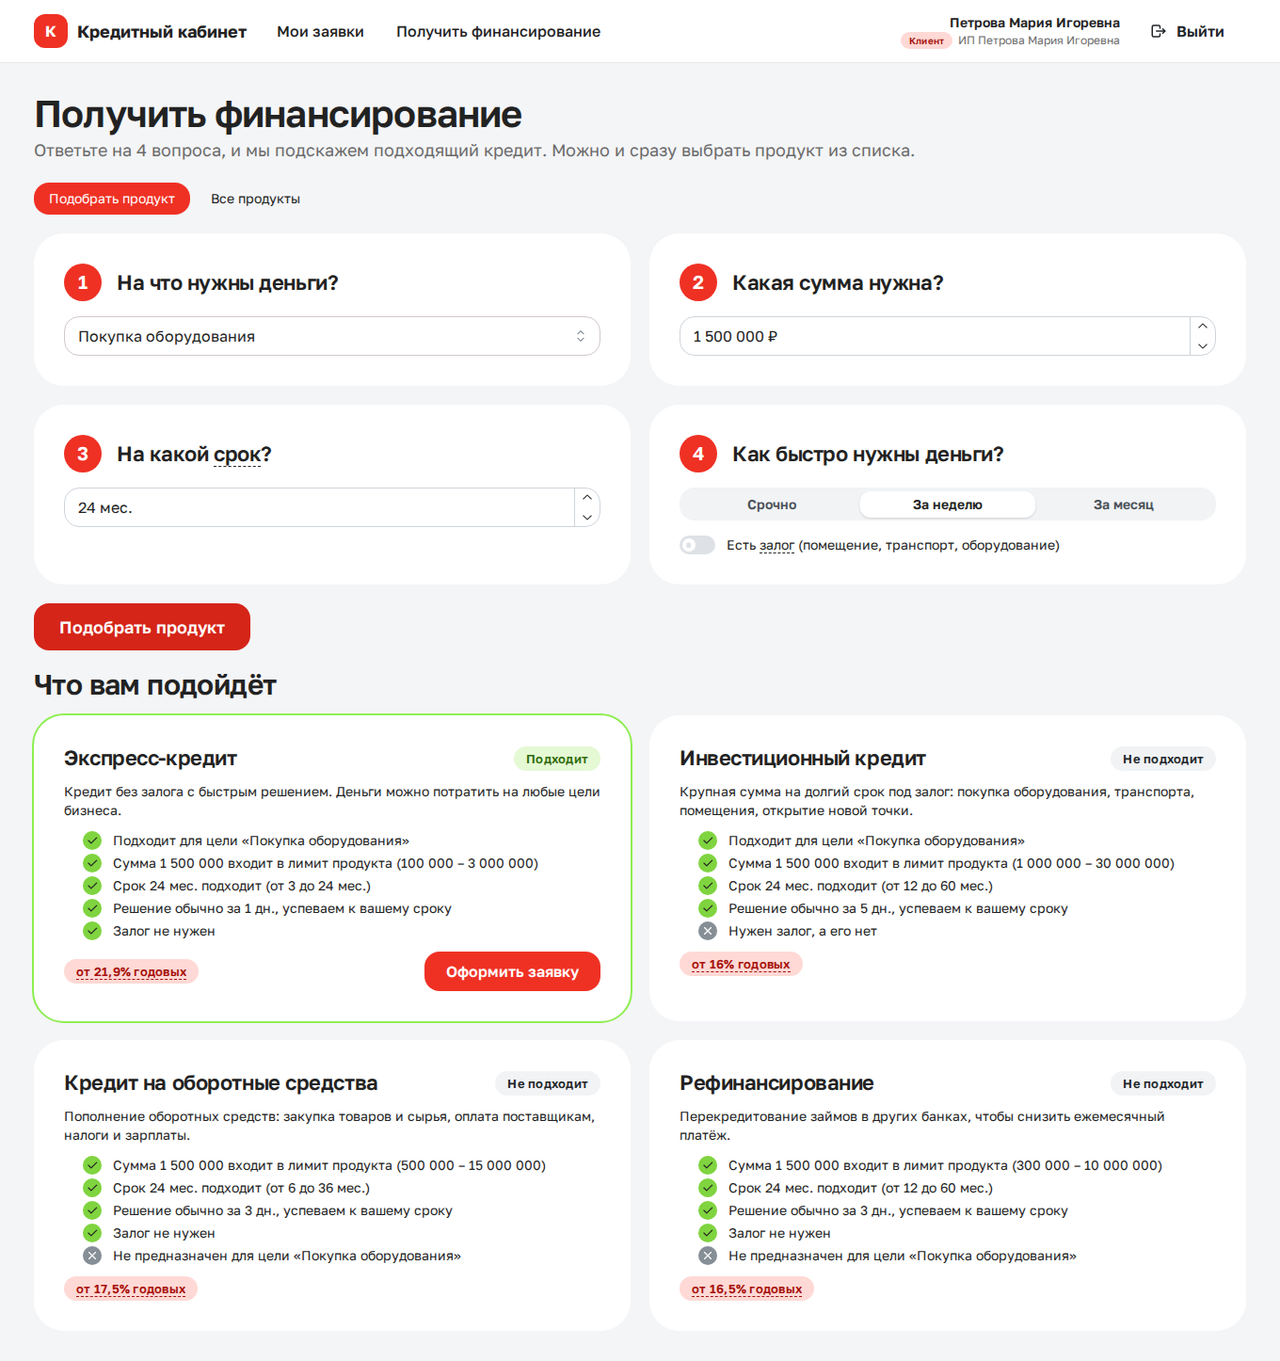
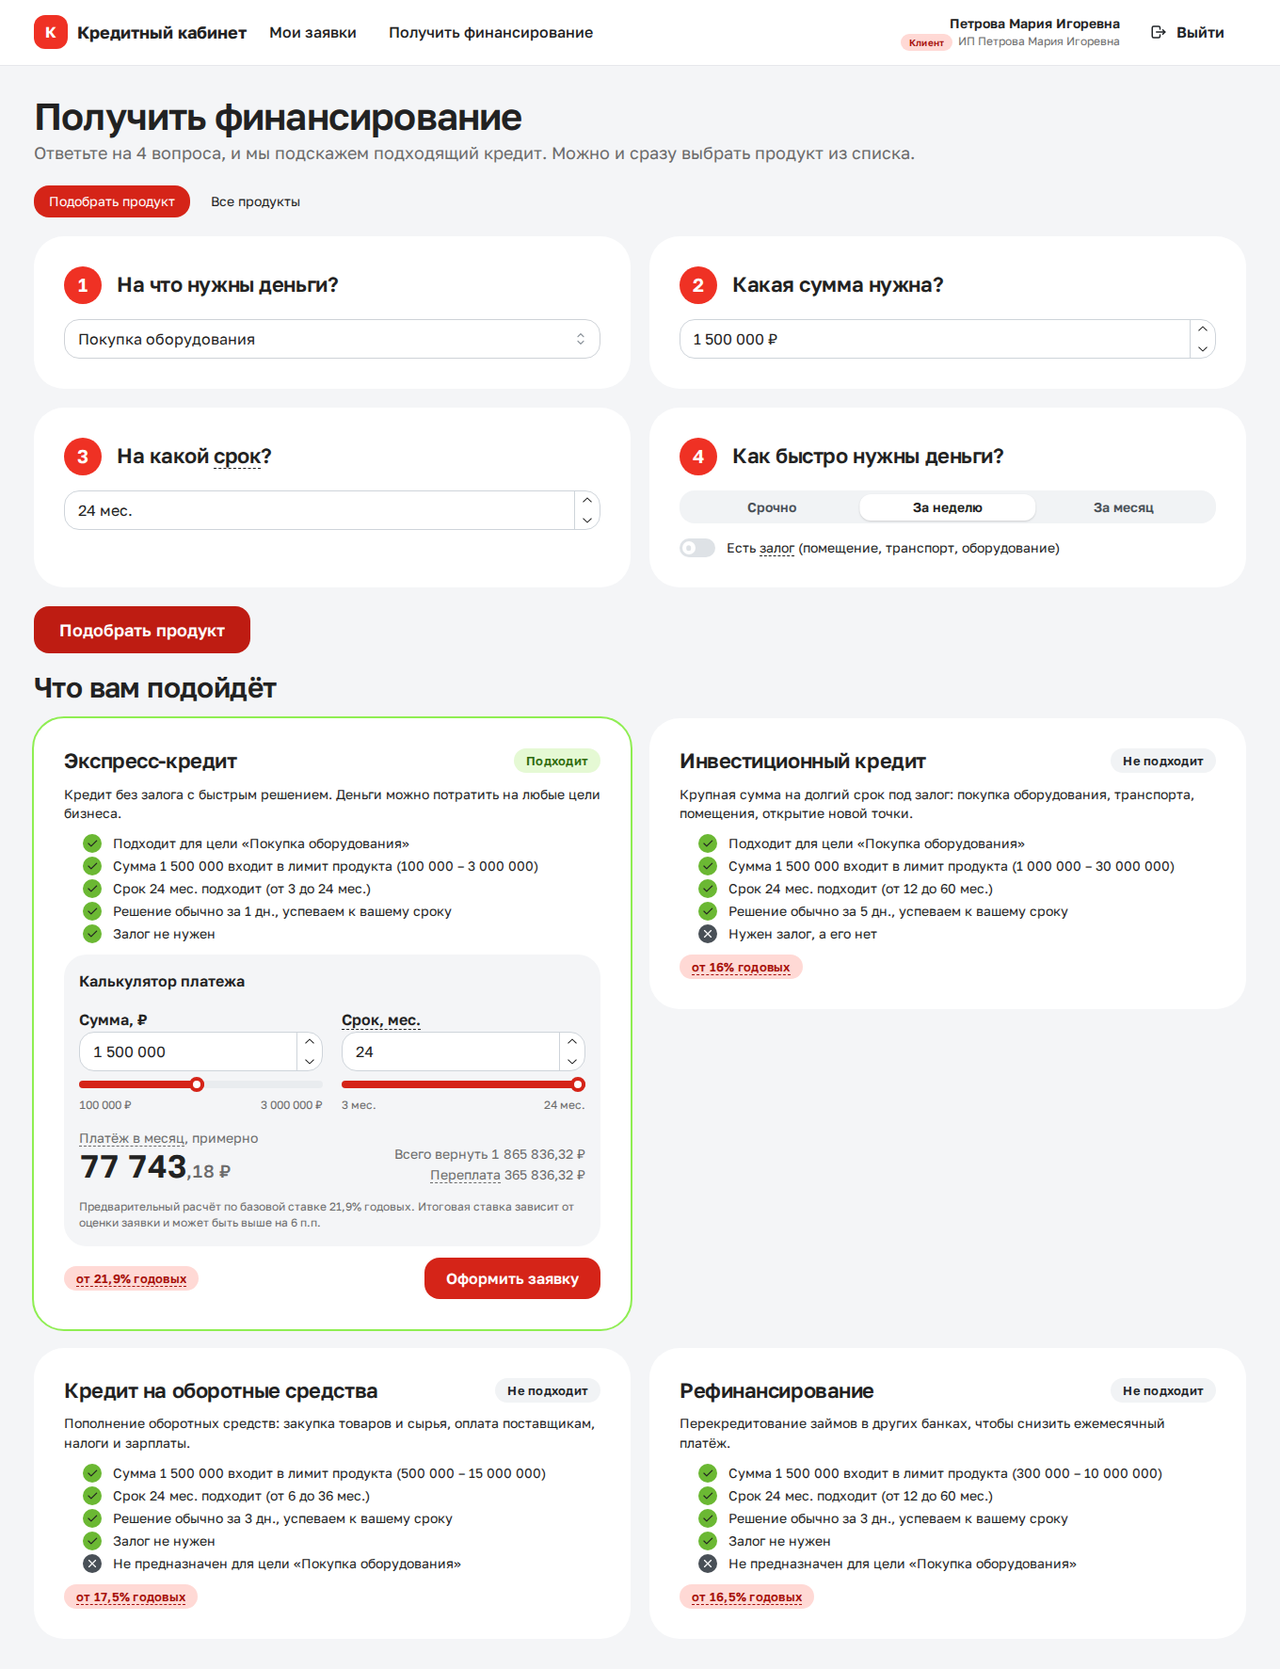
Дизайн-проход, финальное ревью: шкала анкеты, кнопки предложения рядом с условиями, шапка на 768, контраст кнопок AA, новые скриншоты

diff --git a/frontend/src/components/application/OfferCard.tsx b/frontend/src/components/application/OfferCard.tsx
@@ -26,7 +26,8 @@ function Figure({ label, value }: { label: ReactNode; value: number | null | und
   );
 }
 
-export function OfferCard({ application }: { application: Application }) {
+/** actions — кнопки «Принять / Отказаться»: стоят прямо под условиями, чтобы решение принималось рядом с цифрами */
+export function OfferCard({ application, actions }: { application: Application; actions?: ReactNode }) {
   const offer = application.offer;
   if (!offer) return null;
 
@@ -39,10 +40,6 @@ export function OfferCard({ application }: { application: Application }) {
     { key: "term", label: <Term id="term">Срок</Term>, asked: months(application.term_months), offered: months(offer.term_months), changed: offer.term_months !== application.term_months },
     { key: "rate", label: <Term id="rate">Ставка</Term>, asked: "—", offered: `${percent(offer.rate)} годовых`, changed: false },
   ];
-  // Объяснение ставим после последней изменённой строки — рядом с теми цифрами, которые оно объясняет
-  // (если сумма и срок те же, а изменилась только ставка, — после строки ставки)
-  const changedIndex = rows.map((row) => row.changed).lastIndexOf(true);
-  const lastChanged = changedIndex === -1 ? rows.length - 1 : changedIndex;
 
   return (
     <Card data-testid="offer">
@@ -85,7 +82,7 @@ export function OfferCard({ application }: { application: Application }) {
           <Text size="sm" fw={600} ta="right">
             Банк предлагает
           </Text>
-          {rows.map((row, index) => (
+          {rows.map((row) => (
             <Fragment key={row.key}>
               <Text c={COLORS.textSecondary}>{row.label}</Text>
               <Text
@@ -103,24 +100,23 @@ export function OfferCard({ application }: { application: Application }) {
               <Text className="num" ta="right" fw={600} c={row.changed ? COLORS.accentText : COLORS.text} data-changed={row.changed || undefined}>
                 {row.offered}
               </Text>
-              {index === lastChanged && explanation && isCounter && (
-                <Box
-                  style={{ gridColumn: "1 / -1", borderLeft: `3px solid ${COLORS.attention}`, borderRadius: 4 }}
-                  bg={COLORS.card}
-                  px="md"
-                  py="sm"
-                >
-                  <Text size="sm" fw={600} c={COLORS.attentionText}>
-                    Почему условия изменены
-                  </Text>
-                  <Text size="sm" mt={2}>
-                    {explanation}
-                  </Text>
-                </Box>
-              )}
             </Fragment>
           ))}
         </Box>
+
+        {/* Объяснение сразу под сравнением: изменённые строки выделены выше, здесь — почему */}
+        {explanation && isCounter && (
+          <Box style={{ borderLeft: `3px solid ${COLORS.attention}`, borderRadius: 4 }} px="md" py={4}>
+            <Text size="sm" fw={600} c={COLORS.attentionText}>
+              Почему условия изменены
+            </Text>
+            <Text size="sm" mt={2}>
+              {explanation}
+            </Text>
+          </Box>
+        )}
+
+        {actions}
 
         <Text size="sm" c={COLORS.textSecondary}>
           {offer.status === "active" ? `Предложение действует до ${dateTime(offer.valid_until)}.` : `Предложение: ${offer.status_label.toLowerCase()}.`}

diff --git a/frontend/src/components/Layout.tsx b/frontend/src/components/Layout.tsx
@@ -24,45 +24,45 @@ export function Layout() {
     <Box bg={COLORS.page} mih="100vh">
       <Box component="header" bg={COLORS.card} style={{ borderBottom: `1px solid ${COLORS.border}` }}>
         <Container size="xl" py="sm">
+          {/* До 992px: логотип и «Выйти» в первой строке, разделы второй строкой (см. .header-nav в global.css) */}
           <Group justify="space-between" wrap="wrap" gap="sm">
-            <Group gap="lg" wrap="wrap">
-              <Group gap={10}>
-                <Box
-                  w={36}
-                  h={36}
-                  bg={COLORS.accent}
-                  style={{ borderRadius: 12, display: "grid", placeItems: "center", color: "white", fontWeight: 700 }}
+            <Group gap={10} wrap="nowrap">
+              <Box
+                w={36}
+                h={36}
+                bg={COLORS.accent}
+                style={{ borderRadius: 12, display: "grid", placeItems: "center", color: "white", fontWeight: 700 }}
+                aria-hidden
+              >
+                К
+              </Box>
+              <Text fw={700} size="lg">
+                Кредитный кабинет
+              </Text>
+            </Group>
+            <Group gap="xs" component="nav" className="header-nav" aria-label="Разделы">
+              {links.map((link) => (
+                <Anchor
+                  key={link.to}
+                  component={NavLink}
+                  to={link.to}
+                  end={link.end}
+                  underline="never"
+                  c={COLORS.text}
+                  px="sm"
+                  py={10}
+                  style={({ isActive }: { isActive: boolean }) => ({
+                    borderRadius: RADIUS.control,
+                    fontWeight: 500,
+                    background: isActive ? COLORS.page : "transparent",
+                  })}
                 >
-                  К
-                </Box>
-                <Text fw={700} size="lg">
-                  Кредитный кабинет
-                </Text>
-              </Group>
-              <Group gap="xs" component="nav">
-                {links.map((link) => (
-                  <Anchor
-                    key={link.to}
-                    component={NavLink}
-                    to={link.to}
-                    end={link.end}
-                    underline="never"
-                    c={COLORS.text}
-                    px="sm"
-                    py={6}
-                    style={({ isActive }: { isActive: boolean }) => ({
-                      borderRadius: RADIUS.control,
-                      fontWeight: 500,
-                      background: isActive ? COLORS.page : "transparent",
-                    })}
-                  >
-                    {link.label}
-                  </Anchor>
-                ))}
-              </Group>
+                  {link.label}
+                </Anchor>
+              ))}
             </Group>
             {user && (
-              <Group gap="md" wrap="nowrap">
+              <Group gap="md" wrap="nowrap" className="header-user">
                 <Stack gap={0} align="flex-end">
                   <Text size="sm" fw={600} data-testid="current-user">
                     {user.full_name}

diff --git a/frontend/src/components/Timeline.tsx b/frontend/src/components/Timeline.tsx
@@ -1,5 +1,5 @@
 /** История заявки из поля timeline. Новые события сверху; только что появившиеся — подсвечены. */
-import { Box, Group, Stack, Text } from "@mantine/core";
+import { Box, Group, Stack, Text, UnstyledButton } from "@mantine/core";
 import { useEffect, useRef, useState } from "react";
 
 import type { Schemas } from "../api/client";
@@ -7,6 +7,27 @@ import { COLORS, RADIUS } from "../theme";
 import { dateTime } from "../utils/format";
 
 type Item = Schemas["TimelineItem"];
+
+// Длинный комментарий (например, объяснение предложения) уже показан в своём блоке на странице,
+// поэтому в истории он свёрнут до трёх строк и разворачивается по кнопке
+const LONG_COMMENT = 160;
+
+function Comment({ text }: { text: string }) {
+  const [open, setOpen] = useState(false);
+  const isLong = text.length > LONG_COMMENT;
+  return (
+    <Stack gap={2} align="flex-start">
+      <Text size="sm" lineClamp={isLong && !open ? 3 : undefined}>
+        {text}
+      </Text>
+      {isLong && (
+        <UnstyledButton onClick={() => setOpen(!open)} fz="sm" c={COLORS.textSecondary} td="underline" style={{ minHeight: 24 }}>
+          {open ? "Свернуть" : "Показать полностью"}
+        </UnstyledButton>
+      )}
+    </Stack>
+  );
+}
 
 export function Timeline({ items }: { items: Item[] }) {
   const seen = useRef<number | null>(null);
@@ -32,12 +53,12 @@ export function Timeline({ items }: { items: Item[] }) {
           key={`${item.at}-${index}`}
           className={freshFrom !== null && index >= freshFrom ? "event-new" : undefined}
           p="sm"
-          style={{ borderRadius: RADIUS.control, borderLeft: `3px solid ${index === items.length - 1 ? COLORS.accent : COLORS.border}` }}
+          style={{ borderRadius: RADIUS.control, borderLeft: `3px solid ${index === items.length - 1 ? COLORS.text : COLORS.border}` }}
         >
           <Group justify="space-between" align="flex-start" wrap="nowrap" gap="sm">
             <Stack gap={2}>
               <Text fw={600}>{item.title}</Text>
-              {item.comment && <Text size="sm">{item.comment}</Text>}
+              {item.comment && <Comment text={item.comment} />}
               <Text size="xs" c={COLORS.textSecondary}>
                 {item.actor}
               </Text>

diff --git a/frontend/src/pages/client/ApplicationPage.tsx b/frontend/src/pages/client/ApplicationPage.tsx
@@ -123,6 +123,8 @@ export function ApplicationPage() {
   const application = query.data;
   const working = workingStep(application);
   const finished = allStepsDone(application);
+  // Пока предложение действует, кнопки ответа стоят в карточке предложения, рядом с условиями
+  const offerOpen = application.offer?.status === "active" && application.available_actions.length > 0;
 
   return (
     <Stack gap="lg">
@@ -184,7 +186,7 @@ export function ApplicationPage() {
             </Alert>
           )}
           {working && <BankWorking label={working.label} />}
-          {application.available_actions.length > 0 && (
+          {application.available_actions.length > 0 && !offerOpen && (
             <Box mt="xs">
               <ActionBar application={application} />
             </Box>
@@ -201,7 +203,7 @@ export function ApplicationPage() {
           <Stack gap="lg">
             <InfoRequestPanel application={application} />
             {/* После выдачи условия уже показаны в итоге сверху — второй раз их не повторяем */}
-            {!finished && <OfferCard application={application} />}
+            {!finished && <OfferCard application={application} actions={offerOpen ? <ActionBar application={application} /> : undefined} />}
             <ApplicationDetails application={application} />
             <DocumentsBlock application={application} />
           </Stack>

diff --git a/frontend/src/pages/client/ProductsPage.tsx b/frontend/src/pages/client/ProductsPage.tsx
@@ -187,7 +187,8 @@ function Picker() {
           {recommend.data.some((item) => item.suitable) ? null : (
             <Text c={COLORS.textSecondary}>Под эти условия ни один продукт не подходит полностью. Ниже видно, что можно изменить.</Text>
           )}
-          <SimpleGrid cols={{ base: 1, md: 2 }} spacing="lg">
+          {/* Карточки разной высоты (у подходящей есть калькулятор) не растягиваются друг под друга */}
+          <SimpleGrid cols={{ base: 1, md: 2 }} spacing="lg" style={{ alignItems: "start" }}>
             {recommend.data.map((item) => (
               <Recommendation key={item.product.code} item={item} request={request} />
             ))}
@@ -204,7 +205,7 @@ function Catalog() {
   if (products.isError) return <ErrorState error={products.error} onRetry={() => void products.refetch()} />;
   if (!products.data?.length) return <EmptyState title="Продуктов пока нет" />;
   return (
-    <SimpleGrid cols={{ base: 1, md: 2 }} spacing="lg">
+    <SimpleGrid cols={{ base: 1, md: 2 }} spacing="lg" style={{ alignItems: "start" }}>
       {products.data.map((product) => (
         <ProductCard key={product.code} product={product} />
       ))}

diff --git a/frontend/src/components/bank/ScoringBars.tsx b/frontend/src/components/bank/ScoringBars.tsx
@@ -26,7 +26,8 @@ function SummaryLabel({ children }: { children: React.ReactNode }) {
   );
 }
 
-/** Долговая нагрузка: какая часть месячной выручки уйдёт на платежи по всем кредитам вместе с новым */
+/** Долговая нагрузка: какая часть месячной выручки уйдёт на платежи по всем кредитам вместе с новым.
+ *  Округляем до целого процента, как в факторе скоринга, чтобы на экране было одно число */
 function DebtLoad({ value }: { value: number }) {
   const share = Math.min(Math.max(value, 0), 1);
   return (
@@ -36,7 +37,7 @@ function DebtLoad({ value }: { value: number }) {
           <Term id="debt_load">Долговая нагрузка</Term>
         </Text>
         <Text fw={600} className="num">
-          {percent(Math.round(value * 1000) / 10)} выручки
+          {percent(Math.round(value * 100))} выручки
         </Text>
       </Group>
       <Box h={10} bg="#E6E7EB" style={{ borderRadius: 5, overflow: "hidden" }} aria-hidden>

diff --git a/frontend/src/pages/client/ApplicationFormPage.tsx b/frontend/src/pages/client/ApplicationFormPage.tsx
@@ -5,6 +5,7 @@
  */
 import { Alert, Box, Button, Card, Group, NumberInput, Select, SimpleGrid, Stack, Stepper, Text, Textarea, Title } from "@mantine/core";
 import { notifications } from "@mantine/notifications";
+import { IconCheck } from "@tabler/icons-react";
 import { useMutation, useQuery, useQueryClient } from "@tanstack/react-query";
 import { useEffect, useState, type ReactNode } from "react";
 import { Link, useNavigate, useParams, useSearchParams } from "react-router-dom";
@@ -244,7 +245,15 @@ export function ApplicationFormPage() {
       )}
 
       <Card>
-        <Stepper active={step} onStepClick={(target) => target < step && setStep(target)} size="sm" color="brand" allowNextStepsSelect={false}>
+        <Stepper
+          active={step}
+          onStepClick={(target) => target < step && setStep(target)}
+          size="sm"
+          color="brand"
+          allowNextStepsSelect={false}
+          className="form-stepper"
+          completedIcon={<IconCheck size={16} stroke={3} />}
+        >
           {STEPS.map((label) => (
             <Stepper.Step key={label} label={label} />
           ))}

diff --git a/frontend/src/global.css b/frontend/src/global.css
@@ -44,6 +44,35 @@ h3 {
   background: #e9eaee;
 }
 
+/* Шаги анкеты: пройденный шаг салатовый с галочкой, как на шкале заявки; текущий залит красным */
+.form-stepper .mantine-Stepper-stepIcon[data-completed] {
+  background: #8fee52;
+  border-color: #8fee52;
+  color: #222222;
+}
+
+.form-stepper .mantine-Stepper-stepIcon[data-progress] {
+  background: #d52418;
+  border-color: #d52418;
+  color: #ffffff;
+}
+
+.form-stepper .mantine-Stepper-separator[data-active] {
+  background: #8fee52;
+}
+
+/* Шапка: на ширине меньше 992px разделы уходят второй строкой на всю ширину */
+@media (max-width: 61.99em) {
+  .header-nav {
+    order: 3;
+    width: 100%;
+  }
+}
+
+.header-nav {
+  flex: 1;
+}
+
 /* ---------- Фокус с клавиатуры ---------- */
 /* Видимое кольцо у всего, до чего можно дойти Tab: кнопки, ссылки, строки таблиц, термины с подсказкой */
 :focus-visible {

diff --git a/frontend/src/pages/bank/StatsPage.tsx b/frontend/src/pages/bank/StatsPage.tsx
@@ -47,11 +47,13 @@ export function StatsPage() {
             <Table.Tbody>
               {data.by_status.map((item) => (
                 <Table.Tr key={item.status}>
-                  <Table.Td w="35%">{item.label}</Table.Td>
+                  <Table.Td w="35%" c={item.count ? COLORS.text : COLORS.textSecondary}>
+                    {item.label}
+                  </Table.Td>
                   <Table.Td>
                     <Box h={10} w={`${(item.count / maxCount) * 100}%`} miw={item.count ? 6 : 0} bg={item.status === "MANUAL_REVIEW" ? COLORS.accent : "#C9CBD2"} style={{ borderRadius: 6 }} />
                   </Table.Td>
-                  <Table.Td ta="right" className="num" w={60} fw={600}>
+                  <Table.Td ta="right" className="num" w={60} fw={item.count ? 600 : 400} c={item.count ? COLORS.text : COLORS.textSecondary}>
                     {item.count}
                   </Table.Td>
                 </Table.Tr>

diff --git a/frontend/e2e/screenshots.spec.ts b/frontend/e2e/screenshots.spec.ts
@@ -31,6 +31,7 @@ test("@screenshots ключевые экраны", async ({ page, browser }) => 
   await page.goto("/client/apply?product=working_capital&amount=1500000&term=24&purpose=working_capital");
   await page.getByTestId("form-next").click();
   await expect(page.getByTestId("company-data")).toBeVisible();
+  await page.waitForTimeout(600); // шкала шагов анкеты плавно перекрашивается — снимаем после перехода
   await page.screenshot({ path: `${DIR}/04-application-form.png`, fullPage: true });
 
   // Статус меняется на глазах: снимок во время проверки и после решения

diff --git a/frontend/src/theme.ts b/frontend/src/theme.ts
@@ -46,7 +46,9 @@ const violet: MantineColorsTuple = [
 
 export const theme = createTheme({
   primaryColor: "brand",
-  primaryShade: 6,
+  // Заливка кнопок — оттенок 7 (#D52418): белый текст на нём даёт контраст около 5:1 (WCAG AA),
+  // а на фирменном #EF3124 только 4.1:1. Сам #EF3124 остаётся акцентом шкалы, сумм и логотипа
+  primaryShade: 7,
   colors: { brand: red, lime, violet },
   black: COLORS.text,
   fontFamily: "'Golos Text', system-ui, -apple-system, 'Segoe UI', sans-serif",

diff --git a/frontend/src/components/application/ActionBar.tsx b/frontend/src/components/application/ActionBar.tsx
@@ -71,7 +71,9 @@ export function ActionBar({ application }: { application: Application }) {
           );
         })}
       </Group>
-      {actions.map(
+      {/* Почему кнопка неактивна. Если открыт запрос уточнений, это уже объясняет блок «Что нужно от вас» */}
+      {!application.info_request?.is_open &&
+        actions.map(
         (action) =>
           !action.enabled &&
           action.disabled_reason && (
